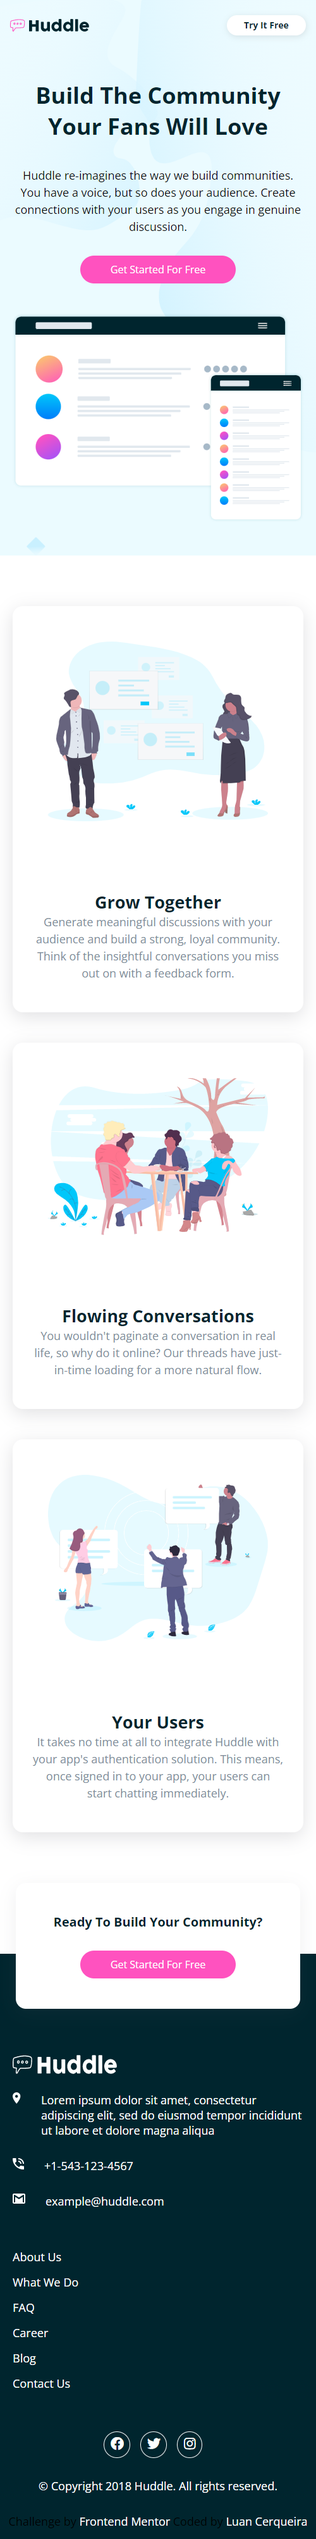
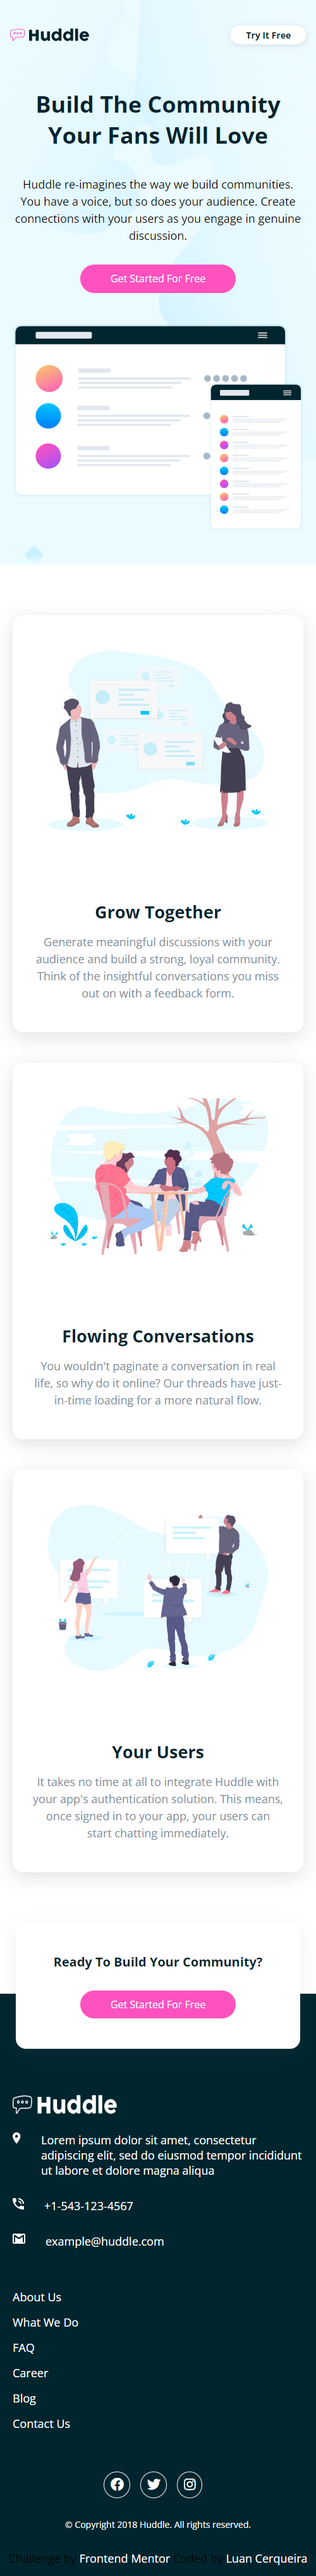
done

diff --git a/scss/_body.scss b/scss/_body.scss
@@ -50,10 +50,7 @@ main {
 
     h2 {
         color: variables.$Very-Dark-Cyan;
-
-            @include media-md {
-                margin-bottom: 1rem;
-            }
+        margin-bottom: 1rem;
     }
     
     p {

diff --git a/css/main.css b/css/main.css
@@ -140,11 +140,7 @@ main {
 }
 .card h2 {
   color: #00252e;
-}
-@media screen and (min-width: 768px) {
-  .card h2 {
-    margin-bottom: 1rem;
-  }
+  margin-bottom: 1rem;
 }
 .card p {
   color: #808d99;

diff --git a/README.md b/README.md
@@ -1,6 +1,15 @@
 # Frontend Mentor - Huddle landing page with alternating feature blocks solution
 
 
+### Built with
+
+- Semantic HTML5 markup
+- scss
+- Flexbox
+- Grid
+- Mobile-first
+
+
 ### Screenshots
 
 <div align="center">
